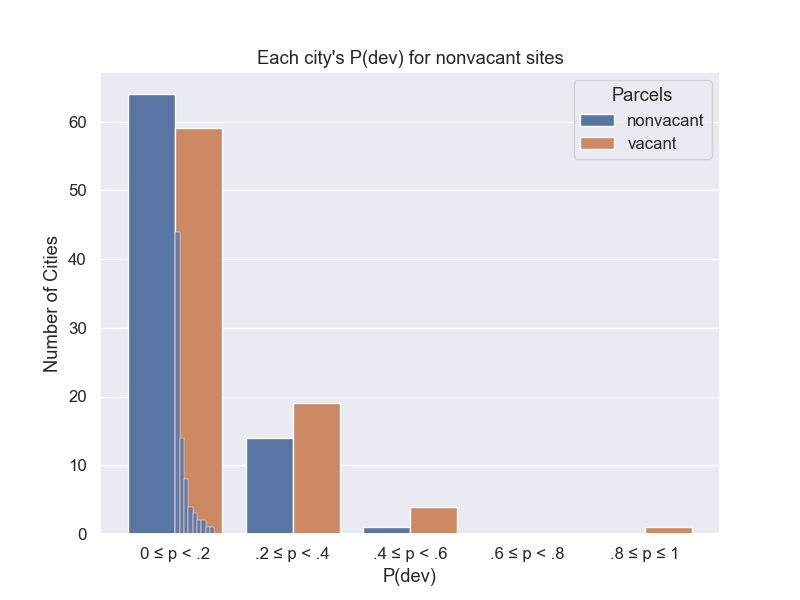
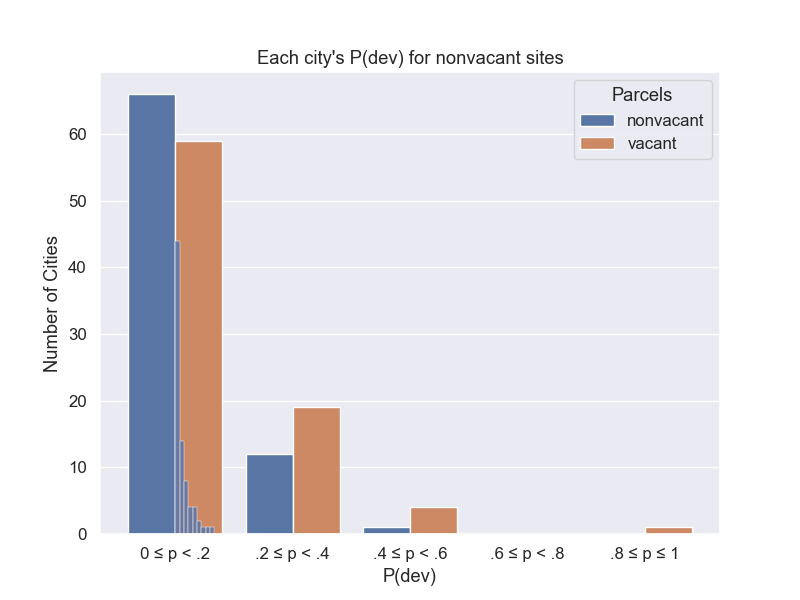
Fix bug in previous commit
It actually does affect P(dev) and underproduction ratio slightly.

diff --git a/housing_elements/utils.py b/housing_elements/utils.py
@@ -689,7 +689,7 @@ def get_matches_df(matches: Matches, match_by: str, geo_matching_buffer: str, us
         geo_new_df = geo_df[
             ~geo_df['permits_index'].isin(apn_df['permits_index'])
         ]
-        return pd.concat([apn_df, geo_df])
+        return pd.concat([apn_df, geo_new_df])
     else:
         raise ValueError(f"Unknown matching type: {match_by}")
 
